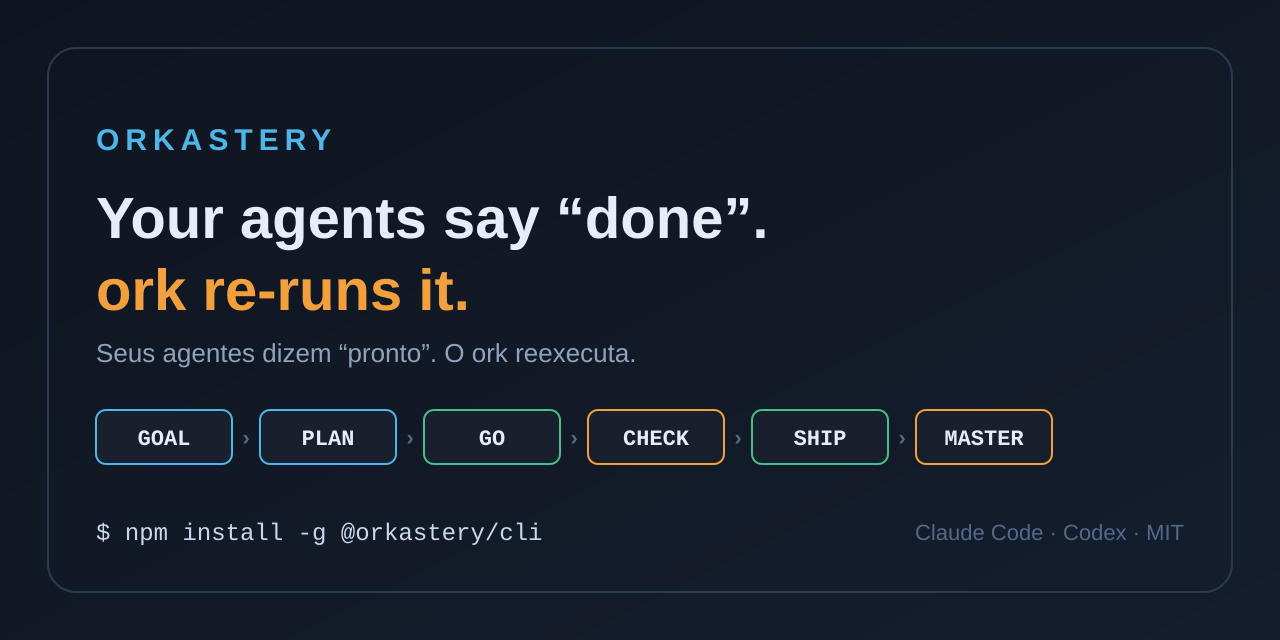
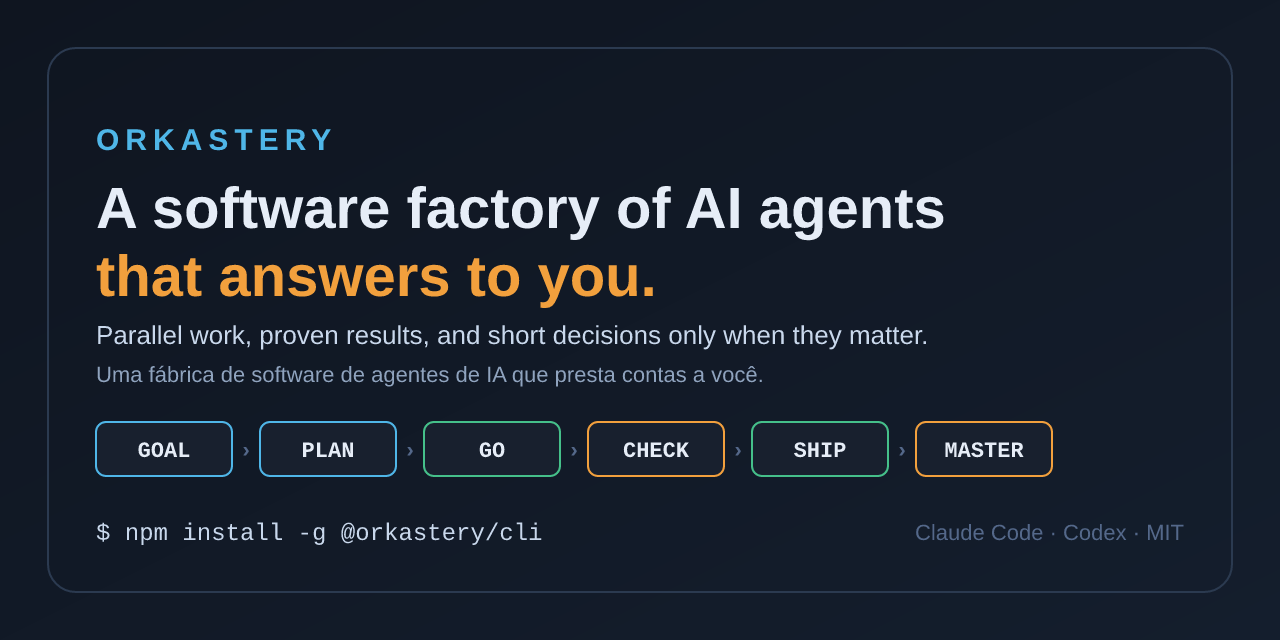
docs(ork-novafrasedea): nova frase de apresentacao, a fabrica de agentes que presta contas
Decisao do dono em 28/09/2026: a frase antiga ("Your agents say done...") sai do About do
GitHub, dos READMEs, do README e da descricao do pacote no npm e da imagem de previa. Entra:
"A software factory of AI agents that answers to you: parallel work, proven results, and
short decisions only when they matter." A imagem foi gerada de novo a partir do SVG, com a
versao em portugues na linha de baixo.

Changed region(s): [[0.0625, 0.2812, 0.75, 0.5938], [0.0625, 0.625, 0.8438, 0.75]]

diff --git a/README.pt-BR.md b/README.pt-BR.md
@@ -4,7 +4,7 @@
 
 [![npm](https://img.shields.io/npm/v/@orkastery/cli?label=%40orkastery%2Fcli)](https://www.npmjs.com/package/@orkastery/cli) [![licença MIT](https://img.shields.io/badge/licen%C3%A7a-MIT-blue)](LICENSE)
 
-![Seus agentes dizem "pronto". O ork reexecuta: GOAL, PLAN, GO, CHECK, SHIP e MASTER.](docs/assets/social-preview.png)
+![Uma fábrica de software de agentes de IA que presta contas a você: GOAL, PLAN, GO, CHECK, SHIP e MASTER.](docs/assets/social-preview.png)
 
 > **Em uma frase:** o `ork` conduz agentes de IA (Claude Code e Codex) em threads paralelas de seis fases, confere cada afirmação contra o repositório antes de ela valer e só chama você quando a decisão é de fato sua.
 

diff --git a/README.md b/README.md
@@ -4,7 +4,7 @@
 
 [![npm](https://img.shields.io/npm/v/@orkastery/cli?label=%40orkastery%2Fcli)](https://www.npmjs.com/package/@orkastery/cli) [![MIT license](https://img.shields.io/badge/license-MIT-blue)](LICENSE)
 
-![Your agents say "done". ork re-runs it: GOAL, PLAN, GO, CHECK, SHIP and MASTER.](docs/assets/social-preview.png)
+![A software factory of AI agents that answers to you: GOAL, PLAN, GO, CHECK, SHIP and MASTER.](docs/assets/social-preview.png)
 
 > **In one sentence:** `ork` conducts AI coding agents (Claude Code and Codex) through parallel six-phase threads, checks every claim against the repository before it counts, and only calls you when the decision is really yours.
 

diff --git a/core/README.md b/core/README.md
@@ -1,6 +1,6 @@
 # @orkastery/cli, the `ork` core
 
-**Your agents say "done". `ork` re-runs it.**
+**A software factory of AI agents that answers to you: parallel work, proven results, and short decisions only when they matter.**
 
 `ork` conducts coding agents (Claude Code, Codex) through six-phase threads, verifies every
 claim by re-running the command that proves it, and only delivers with the push proven on the
